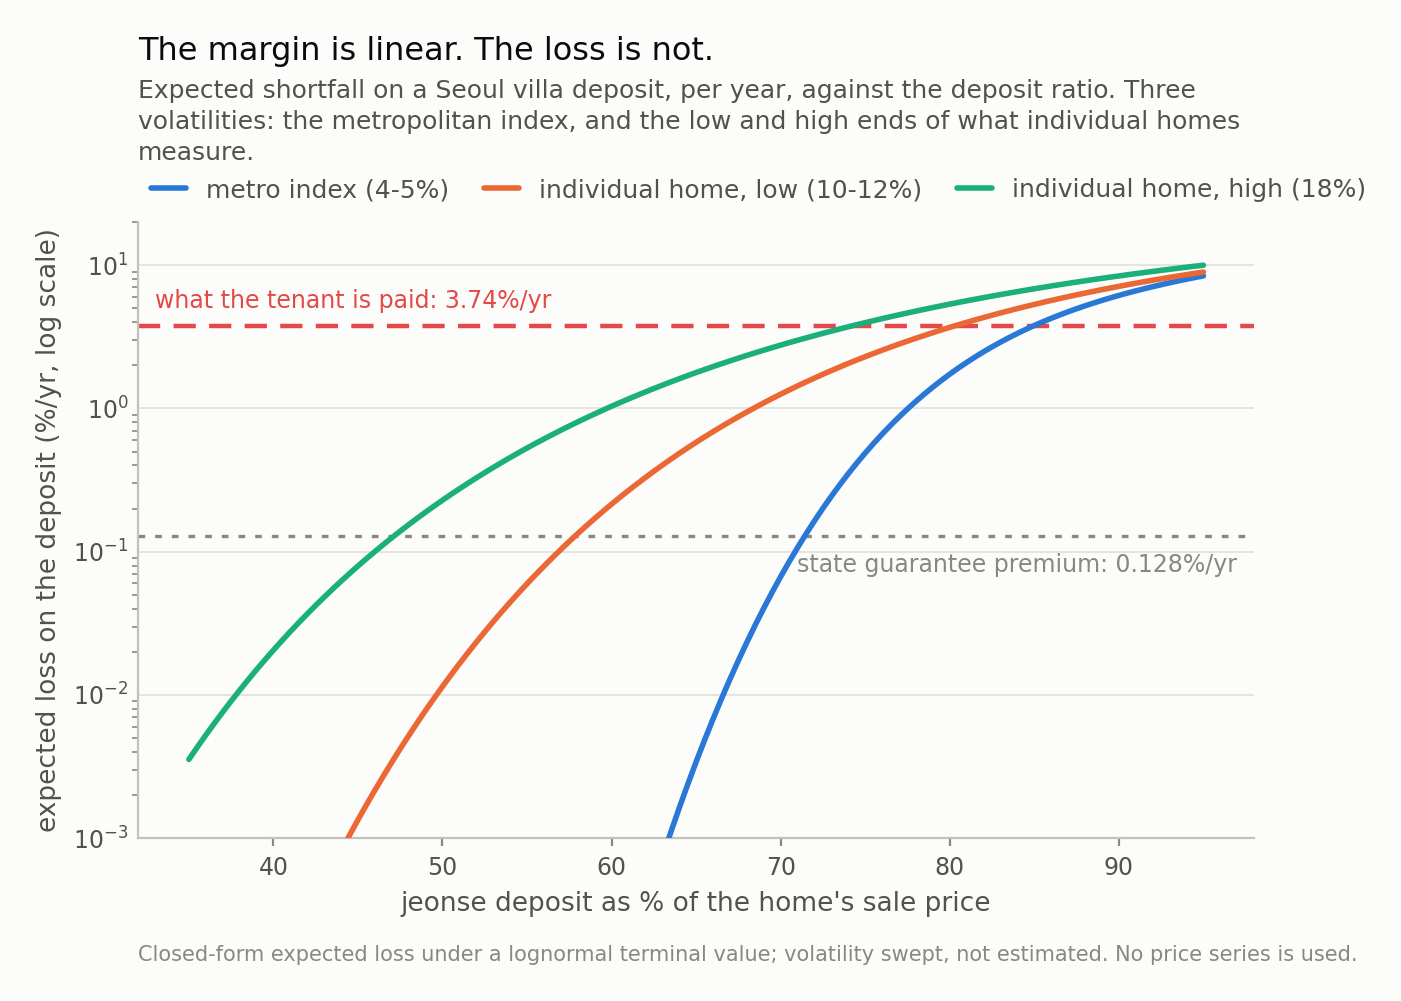
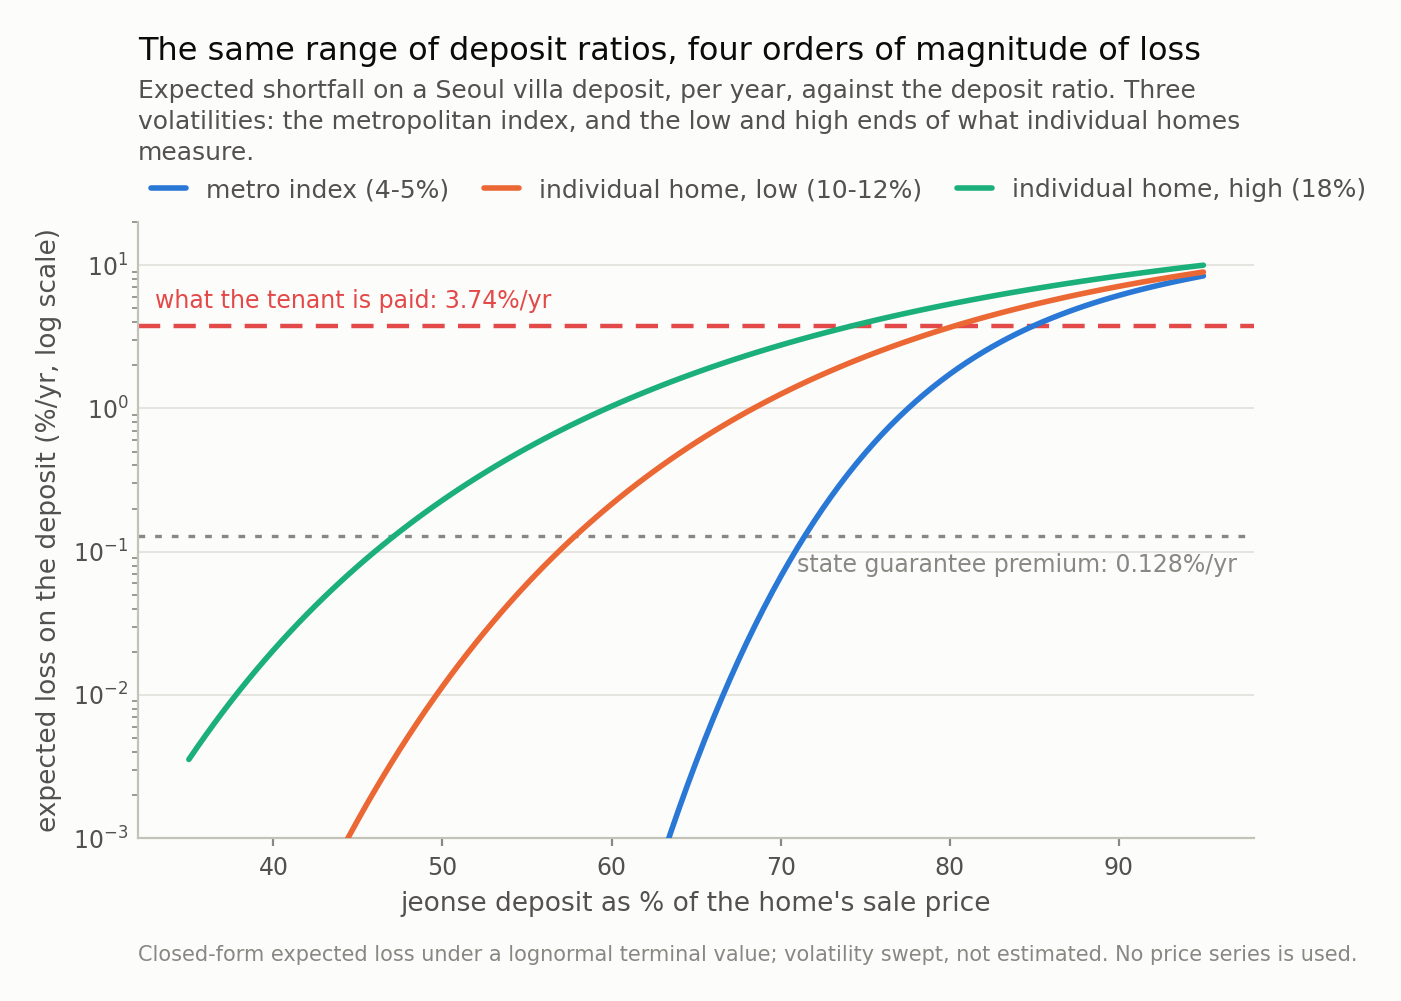
exp010: retone the two remaining figure captions
Fig 1's caption still said 'trigger'/'cohorts' and framed the two cases as a tenant
being at risk; Fig 2's set the tenant's return against 'what the state charged', which
is the juxtaposition the rewrite removed from the body. Both now describe the margin and
mark the reference lines for scale. Fig 2's title also claimed a contrast the chart does
not itself show.

Changed region(s): [[0.1535, 0.031, 0.8594, 0.0619]]

diff --git a/experiments/exp010_jeonse_tranche.py b/experiments/exp010_jeonse_tranche.py
@@ -445,15 +445,14 @@ def figures(res: dict) -> dict:
              "ratio and goes negative beyond it, meaning the deposit exceeds what "
              "the property would fetch at auction before prices move at all."),
         caption=(f"Fig 1. No model in this chart — it is "
-                 f"(deposit + mortgage) / auction ratio, and nothing else. A Seoul "
-                 f"apartment tenant in January 2026 needs a "
-                 f"**{apt['required_fall_pct']:.0f}% fall** before a single won is "
-                 f"at risk. A Seoul villa tenant in December 2022 needed "
-                 f"**{villa22['required_fall_pct']:.1f}%**. The lines are straight "
-                 f"because the trigger is linear in the deposit ratio, so read the "
-                 f"vertical gap in points, not as a ratio — and note that the two "
-                 f"cohorts differ in the auction ratio as well as the deposit ratio, "
-                 f"by {res['decomposition']['auction_ratio_pp']:.1f} points of the "
+                 f"(deposit + mortgage) / auction ratio and nothing else. At January "
+                 f"2026 Seoul apartment ratios the margin is "
+                 f"**{apt['required_fall_pct']:.0f}%**; at December 2022 Seoul villa "
+                 f"ratios it was **{villa22['required_fall_pct']:.1f}%**. The lines "
+                 f"are straight because the margin is linear in the deposit ratio, so "
+                 f"read the vertical gap in points rather than as a ratio — and note "
+                 f"that the two cases differ in the auction ratio as well, by "
+                 f"{res['decomposition']['auction_ratio_pp']:.1f} points of the "
                  f"{res['decomposition']['total_pp']:.0f}."),
         path=str(IMG / f"c4-f1-trigger.{EXT}"))
     figs["trigger"] = fig_meta
@@ -477,7 +476,7 @@ def figures(res: dict) -> dict:
     fig_meta, _ = charts.lines(
         res["losses"], mode="light", direct_labels=False, decorate=mark_spread,
         logy=True, ylim=(1e-3, 20.0),
-        title="The margin is linear. The loss is not.",
+        title="The same range of deposit ratios, four orders of magnitude of loss",
         subtitle=("Expected shortfall on a Seoul villa deposit, per year, against "
                   "the deposit ratio. Three volatilities: the metropolitan index, "
                   "and the low and high ends of what individual homes measure."),
@@ -488,12 +487,12 @@ def figures(res: dict) -> dict:
              "horizontal reference lines mark the spread the tenant earns and the "
              "much lower state guarantee premium."),
         caption=(f"Fig 2. Between a 55% and an 80% deposit ratio the expected loss "
-                 f"rises by roughly four orders of magnitude. Nothing about the "
-                 f"contract changed across that range; the tenant simply moved "
-                 f"from a tranche that is far out of the money to one that is at "
-                 f"the money. The two reference lines are what the tenant receives "
-                 f"for carrying it ({res['spread']:.2f}%/yr) and what the state "
-                 f"charged to guarantee it ({HUG_PREMIUM:.3f}%/yr)."),
+                 f"rises by roughly four orders of magnitude, while the margin in "
+                 f"Fig 1 falls by about thirty points in a straight line. That is "
+                 f"what convexity looks like: the same contract, a claim moving from "
+                 f"far below its threshold to sitting on it. The reference lines mark "
+                 f"the in-kind return net of the Base Rate ({res['spread']:.2f}%/yr) "
+                 f"and the guarantee premium ({HUG_PREMIUM:.3f}%/yr), for scale."),
         path=str(IMG / f"c4-f2-loss.{EXT}"))
     figs["loss"] = fig_meta
 

diff --git a/site/content/posts/the-jeonse-number-not-on-the-contract/index.md b/site/content/posts/the-jeonse-number-not-on-the-contract/index.md
@@ -85,7 +85,7 @@ specific to your building and nobody hands it to you.
 
 ![Three downward-sloping lines. At a 51% deposit ratio the required fall is around 50%; the Seoul-villa line reaches zero at a 79% ratio and goes negative beyond it, meaning the deposit exceeds what the property would fetch at auction before prices move at all.](c4-f1-trigger.png)
 
-*Fig 1. No model in this chart — it is (deposit + mortgage) / auction ratio, and nothing else. A Seoul apartment tenant in January 2026 needs a **50% fall** before a single won is at risk. A Seoul villa tenant in December 2022 needed **0.5%**. The lines are straight because the trigger is linear in the deposit ratio, so read the vertical gap in points, not as a ratio — and note that the two cohorts differ in the auction ratio as well as the deposit ratio, by 21.7 points of the 49.*
+*Fig 1. No model in this chart — it is (deposit + mortgage) / auction ratio and nothing else. At January 2026 Seoul apartment ratios the margin is **50%**; at December 2022 Seoul villa ratios it was **0.5%**. The lines are straight because the margin is linear in the deposit ratio, so read the vertical gap in points rather than as a ratio — and note that the two cases differ in the auction ratio as well, by 21.7 points of the 49.*
 
 ## The margin is not the risk
 
@@ -133,7 +133,7 @@ had already shipped one broken chart.)
 
 ![Three curves rising steeply and then flattening as the deposit ratio increases, on a log scale spanning five orders of magnitude. Two horizontal reference lines mark the spread the tenant earns and the much lower state guarantee premium.](c4-f2-loss.png)
 
-*Fig 2. Between a 55% and an 80% deposit ratio the expected loss rises by roughly four orders of magnitude. Nothing about the contract changed across that range; the tenant simply moved from a tranche that is far out of the money to one that is at the money. The two reference lines are what the tenant receives for carrying it (3.74%/yr) and what the state charged to guarantee it (0.128%/yr).*
+*Fig 2. Between a 55% and an 80% deposit ratio the expected loss rises by roughly four orders of magnitude, while the margin in Fig 1 falls by about thirty points in a straight line. That is what convexity looks like: the same contract, a claim moving from far below its threshold to sitting on it. The reference lines mark the in-kind return net of the Base Rate (3.74%/yr) and the guarantee premium (0.128%/yr), for scale.*
 
 ## What the deposit earns
 
